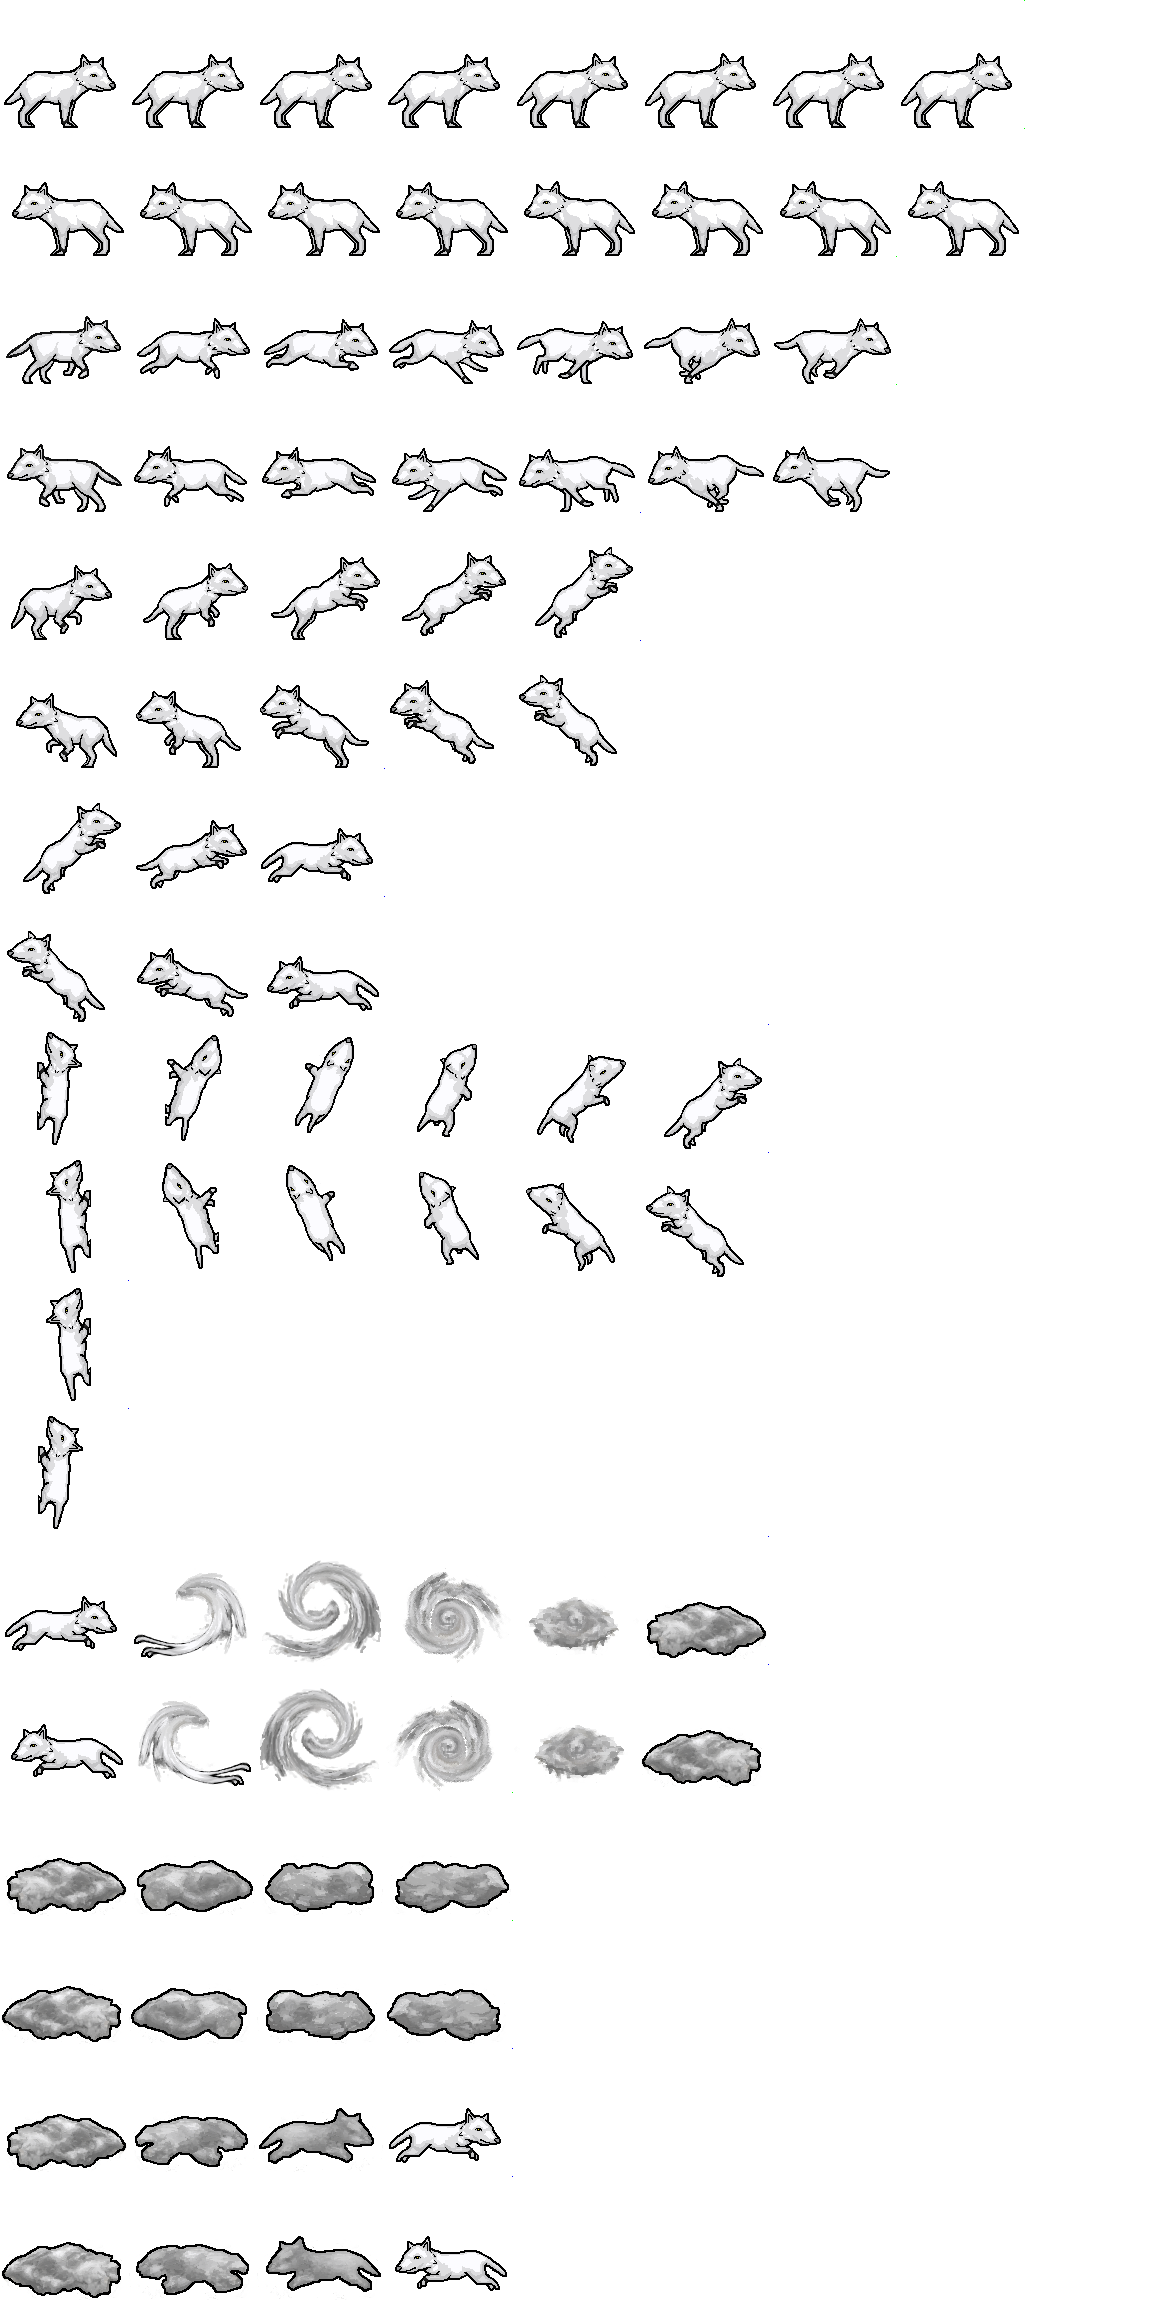
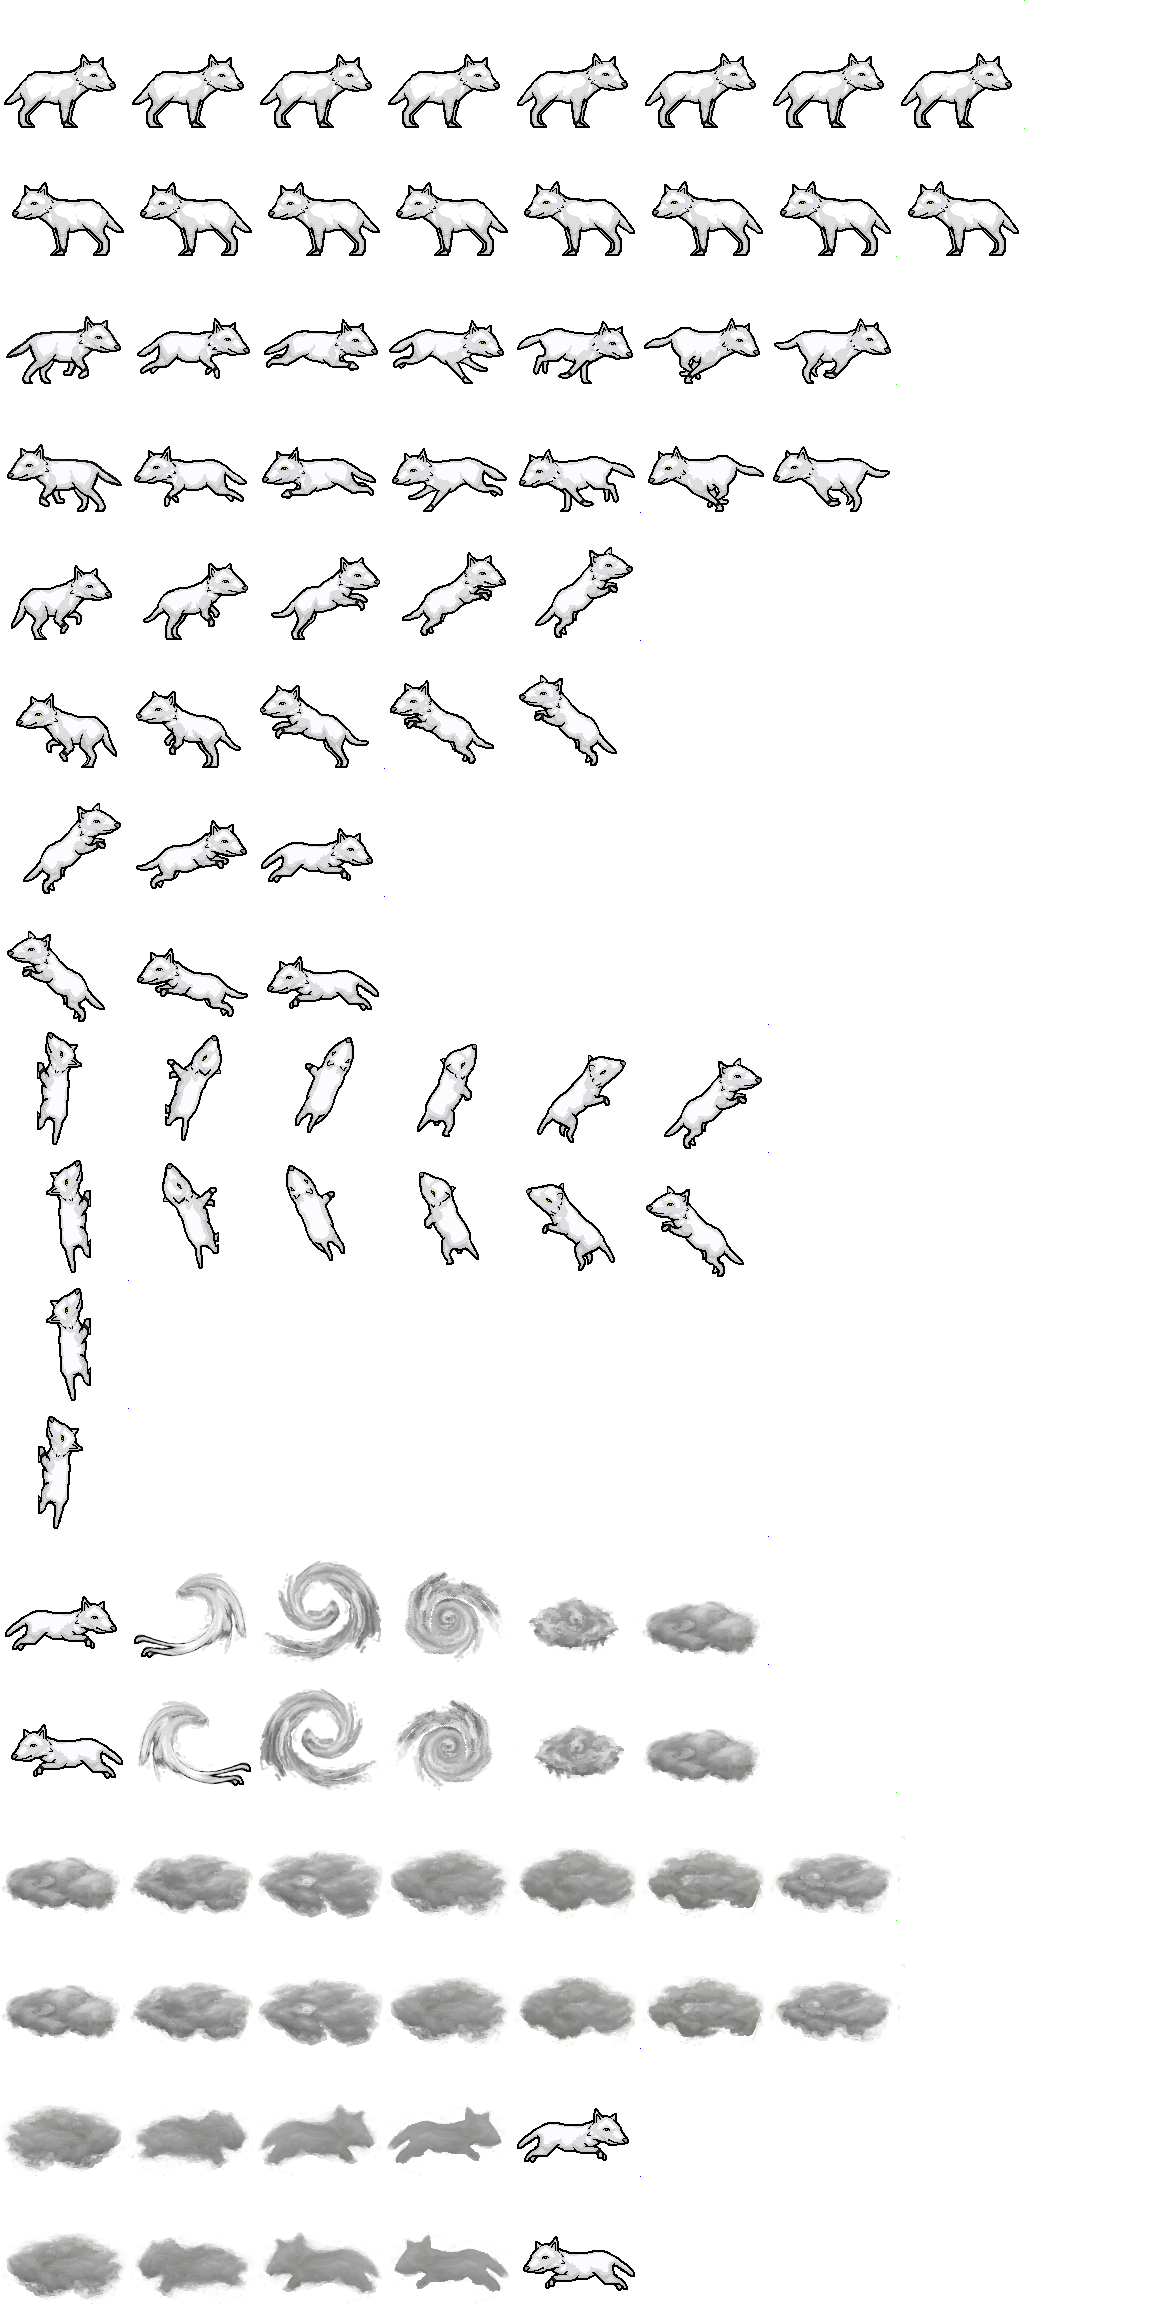
final fix

Changed region(s): [[0.0, 0.75, 0.7812, 0.9375], [0.0, 0.9688, 0.5625, 1.0], [0.5625, 0.6875, 0.6562, 0.7188]]

diff --git a/The Seekers Way 0.2/Fenrir.cpp b/The Seekers Way 0.2/Fenrir.cpp
@@ -483,6 +483,6 @@ void Fenrir::updateSatatus()
 {
 	if(mStatus == ACTION3 && mAnimation.getEndOfAnimation())
 	{
-		//mStatus = ACTION4;
+		mStatus = ACTION4;
 	}
 }
